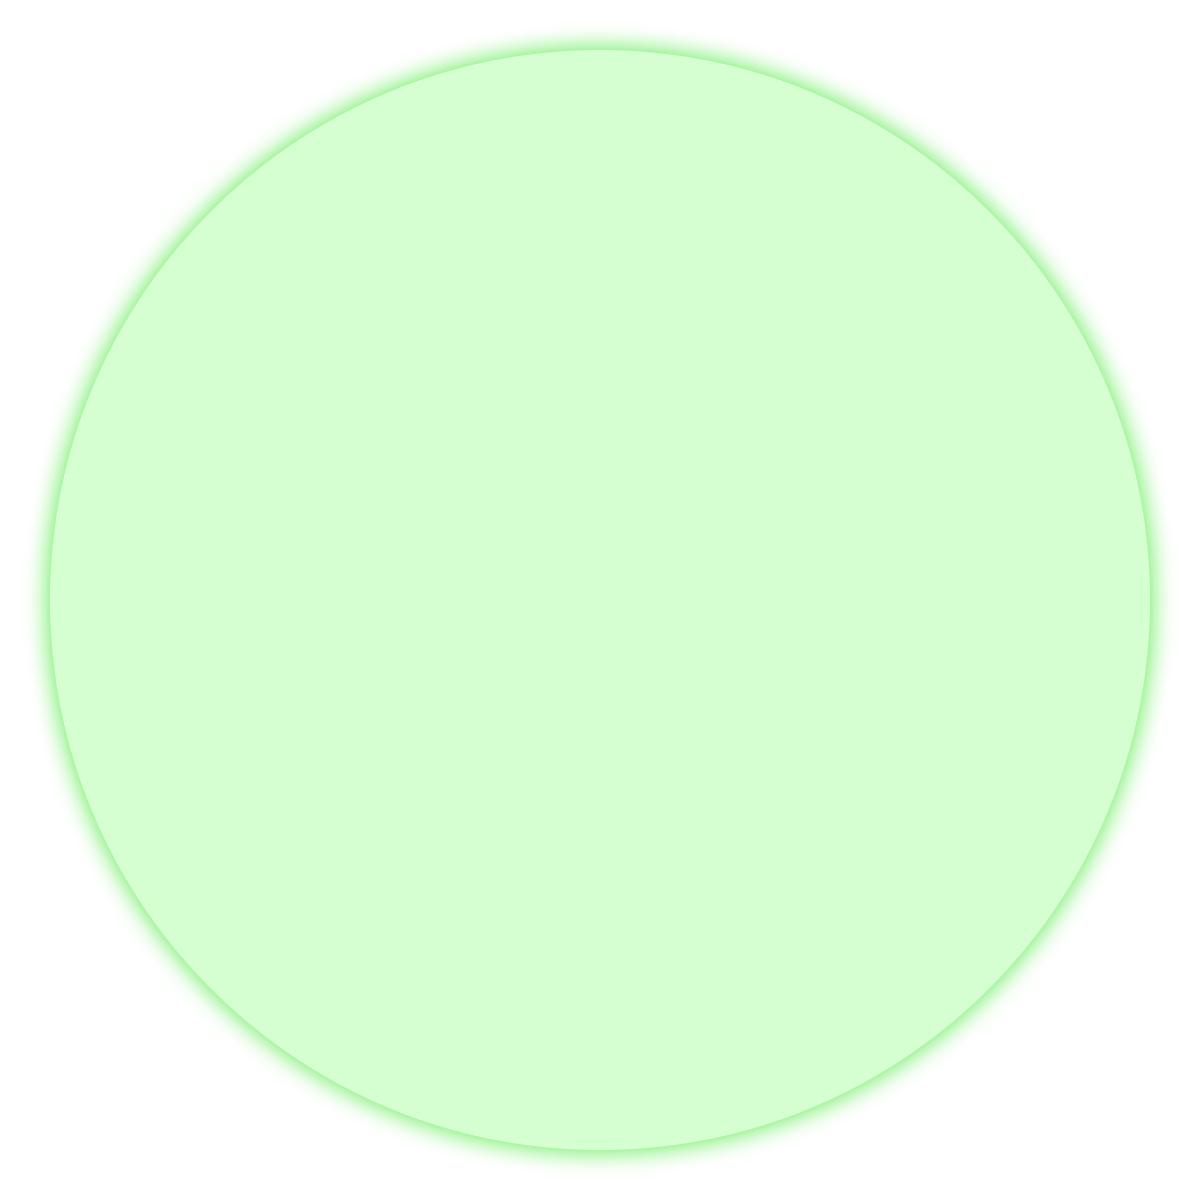
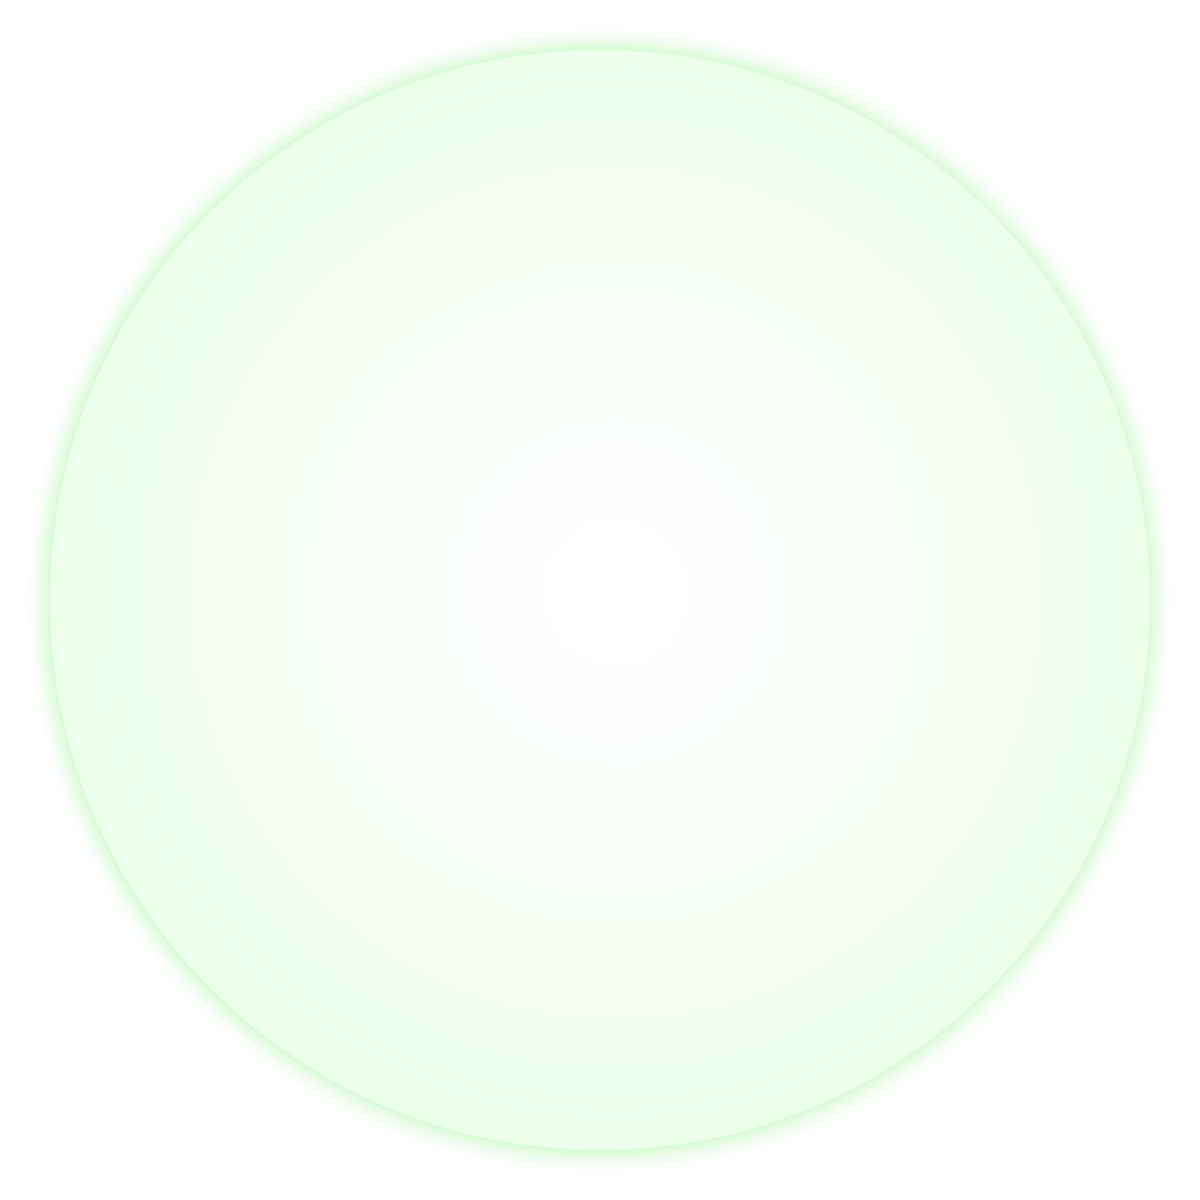
+Planet and shield

diff --git a/js/app/defender/game/shield.js b/js/app/defender/game/shield.js
@@ -28,7 +28,7 @@ _li.define(
             radius: 400,
             x: 0,
             y: 0,
-            at: 0
+            at: 1
         };
 
         init = function () {
